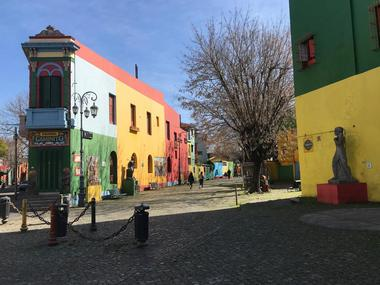
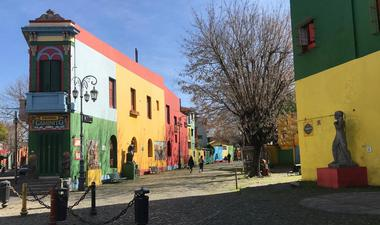
se hicieron algunas modificar algunos errores de la última subida

diff --git a/index.html b/index.html
@@ -156,10 +156,12 @@
                 <h2>Tour del mes</h2>
                 <h3>Viví el delta</h3>
                 <p>
-                    Si creías conocer todo y que para disfrutar de la naturaleza salvaje implicaba viajar varias horas desde Buenos Aires, esta salida es para vos.
+                Si creías conocer todo y que para disfrutar de la naturaleza salvaje implicaba viajar varias horas desde Buenos Aires, esta salida es para vos.
                 </p>
-                <p>Conocerás el Delta como nunca nadie lo había mostrado.  Un paseo distinto a todos los que hiciste. ¿Cuándo venís?</p>
-                <video controls width="95%">
+                <p>Conocerás el Delta como nunca nadie lo había mostrado.  Un paseo distinto a todos los que hiciste. </p>
+                <p>Viví la naturaleza como nunca la viviste</p>
+                <p>¿Cuándo venís?</p>
+                <video controls width="100%">
                 <source src="./videos/delta1.MP4" type="video/mp4">
                 </video>
                 <button>
@@ -174,7 +176,7 @@
             <p>Ofrecemos una salida muy novedosa que te sorprenderá desde el primero hasta el último paso.  ¡No te la pierdas!
             </p>
             <div class="fotoCentrada" >
-                <img src="./images/caminito.jpg" alt="La Boca">
+                <img src="./images/caminito.jpg" alt="La Boca" width="100%" height="97%">
             </div>
             <button>
                 <a href="./tours.html"> Ver más </a>
@@ -188,7 +190,8 @@
             </p>
             <p>Todos nuestros paseos son aptos para realizar con tu mascota y no importa el tamaño. Sólo tiene que portarse bien y tener muchas ganas de disfrutar 
             </p>
-            <img src="./images/petFriendly.jpg" alt="Somos pet Friendly" width="400px">
+            <p>¡Te esperamos con tu mascota!</p>
+            <img src="./images/petFriendly.jpg" alt="Somos pet Friendly" width="100%" height="45%">
         </div>
     
     </section>

diff --git a/css/styles.css b/css/styles.css
@@ -302,6 +302,20 @@ a > i {
     align-items: start;
 }
 
+.dst > h2 {
+    border-bottom: #ff6b6b 0.25rem solid;
+    width: 100%;
+    padding-bottom: 0.5rem;
+    margin-bottom: 2.5rem;
+}
+
+.fotoCentrada{
+    display: flex;
+    justify-content: center;
+    width: 100%;
+    height: 95%;
+    object-fit: cover;
+}
 .dstpf{
     display: flex;
     flex-direction: column;
@@ -310,18 +324,6 @@ a > i {
     padding-top: 2rem;
 }
 
-.dst > h2 {
-    border-bottom: #ff6b6b 0.25rem solid;
-    width: 100%;
-    padding-bottom: 0.5rem;
-    margin-bottom: 2.5rem;
-}
-.fotoCentrada{
-    display: flex;
-    justify-content: center;
-    width: 100%;
-    object-fit: cover;
-}
 
 .petfriendly{
     border-radius: 3rem;
